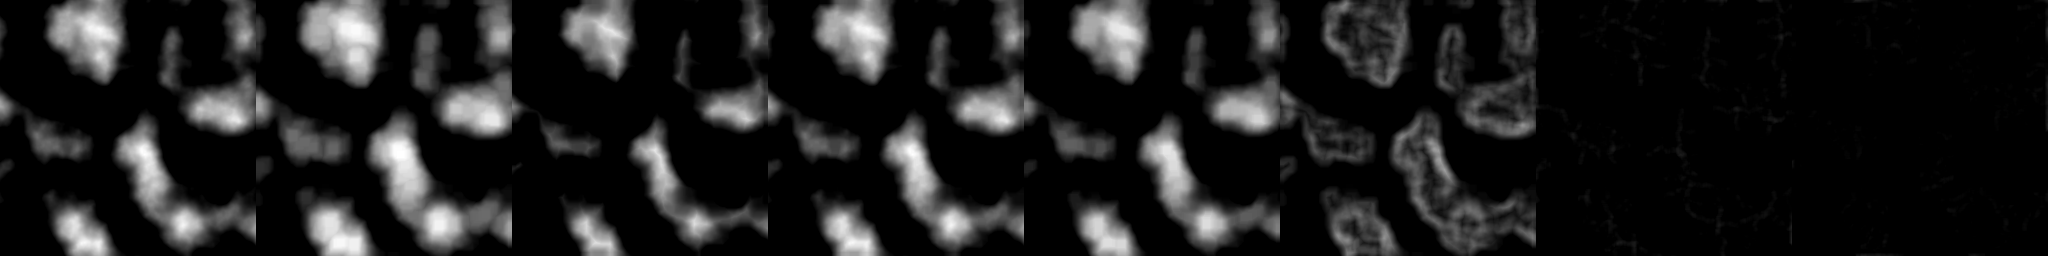
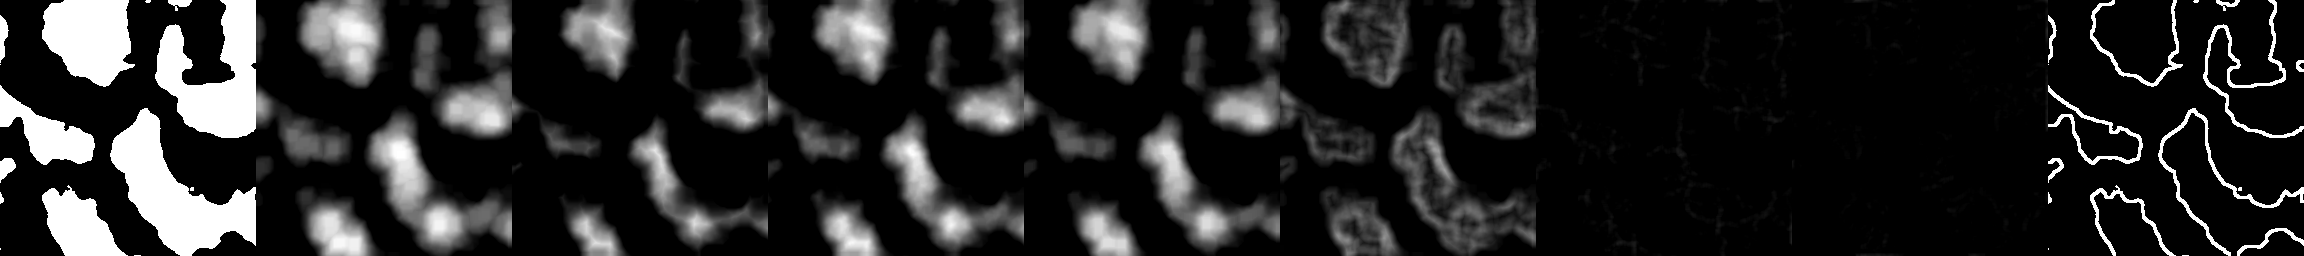
Add border morphology operator

diff --git a/examples/ex_morphology_base/ex_morphology_base.cpp b/examples/ex_morphology_base/ex_morphology_base.cpp
@@ -13,15 +13,18 @@ int main(void)
   // radius = 1 ==> 3x3 square kernel
   int ir = 3;
 
-  hmap::Array zd = dilation(z, ir);
-  hmap::Array ze = erosion(z, ir);
-  hmap::Array zc = closing(z, ir);
-  hmap::Array zo = opening(z, ir);
-  hmap::Array zg = morphological_gradient(z, ir);
-  hmap::Array zt = morphological_top_hat(z, ir);
-  hmap::Array zb = morphological_black_hat(z, ir);
+  hmap::Array zd = hmap::dilation(z, ir);
+  hmap::Array ze = hmap::erosion(z, ir);
+  hmap::Array zc = hmap::closing(z, ir);
+  hmap::Array zo = hmap::opening(z, ir);
+  hmap::Array zg = hmap::morphological_gradient(z, ir);
+  hmap::Array zt = hmap::morphological_top_hat(z, ir);
+  hmap::Array zb = hmap::morphological_black_hat(z, ir);
+
+  hmap::make_binary(z);
+  hmap::Array zr = hmap::border(z, ir);
 
   hmap::export_banner_png("ex_morphology_base.png",
-                          {z, zd, ze, zc, zo, zg, zt, zb},
+                          {z, zd, ze, zc, zo, zg, zt, zb, zr},
                           hmap::Cmap::GRAY);
 }

diff --git a/HighMap/include/highmap/morphology.hpp b/HighMap/include/highmap/morphology.hpp
@@ -27,6 +27,21 @@ namespace hmap
 {
 
 /**
+ * @brief Apply a border algorithm to the input array using a square
+ * structure.
+ * @param array Input array.
+ * @param ir Square kernel radius.
+ * @return Output array.
+ *
+ * **Example**
+ * @include ex_morphology_base.cpp
+ *
+ * **Result**
+ * @image html ex_morphology_base.png
+ */
+Array border(const Array &array, int ir);
+
+/**
  * @brief Apply a closing algorithm to the input array using a square
  * structure.
  * @param array Input array.

diff --git a/tests/test_gpu_vs_cpu/main.cpp b/tests/test_gpu_vs_cpu/main.cpp
@@ -87,6 +87,11 @@ int main(void)
 
   int ir = 64;
 
+  compare([ir](hmap::Array &z) { z = hmap::border(z, ir); },
+          [ir](hmap::Array &z) { z = hmap::gpu::border(z, ir); },
+          1e-3f,
+          "border.png");
+
   compare([ir](hmap::Array &z) { z = hmap::closing(z, ir); },
           [ir](hmap::Array &z) { z = hmap::gpu::closing(z, ir); },
           1e-3f,

diff --git a/examples/ex_cracks/ex_cracks.cpp b/examples/ex_cracks/ex_cracks.cpp
@@ -18,9 +18,4 @@ int main(void)
   hmap::recast_cracks(z2, cut_min, cut_max);
 
   hmap::export_banner_png("ex_cracks.png", {z1, z2}, hmap::Cmap::TERRAIN, true);
-
-  z1.infos("z1");
-  z2.infos("z2");
-
-  z1.to_png_grayscale("out.png", CV_16U);
 }

diff --git a/HighMap/src/gpu_opencl/wrappers_morphology.cpp b/HighMap/src/gpu_opencl/wrappers_morphology.cpp
@@ -9,6 +9,11 @@
 namespace hmap::gpu
 {
 
+Array border(const Array &array, int ir)
+{
+  return array - gpu::erosion(array, ir);
+}
+
 Array closing(const Array &array, int ir)
 {
   return gpu::erosion(gpu::dilation(array, ir), ir);

diff --git a/HighMap/src/morphology/morphology.cpp b/HighMap/src/morphology/morphology.cpp
@@ -11,6 +11,11 @@
 namespace hmap
 {
 
+Array border(const Array &array, int ir)
+{
+  return array - erosion(array, ir);
+}
+
 Array closing(const Array &array, int ir)
 {
   return erosion(dilation(array, ir), ir);

diff --git a/HighMap/include/highmap/opencl/gpu_opencl.hpp b/HighMap/include/highmap/opencl/gpu_opencl.hpp
@@ -31,6 +31,8 @@ bool init_opencl();
 
 // --- function wrappers
 
+Array border(const Array &array, int ir);
+
 Array closing(const Array &array, int ir);
 
 Array dilation(const Array &array, int ir);
